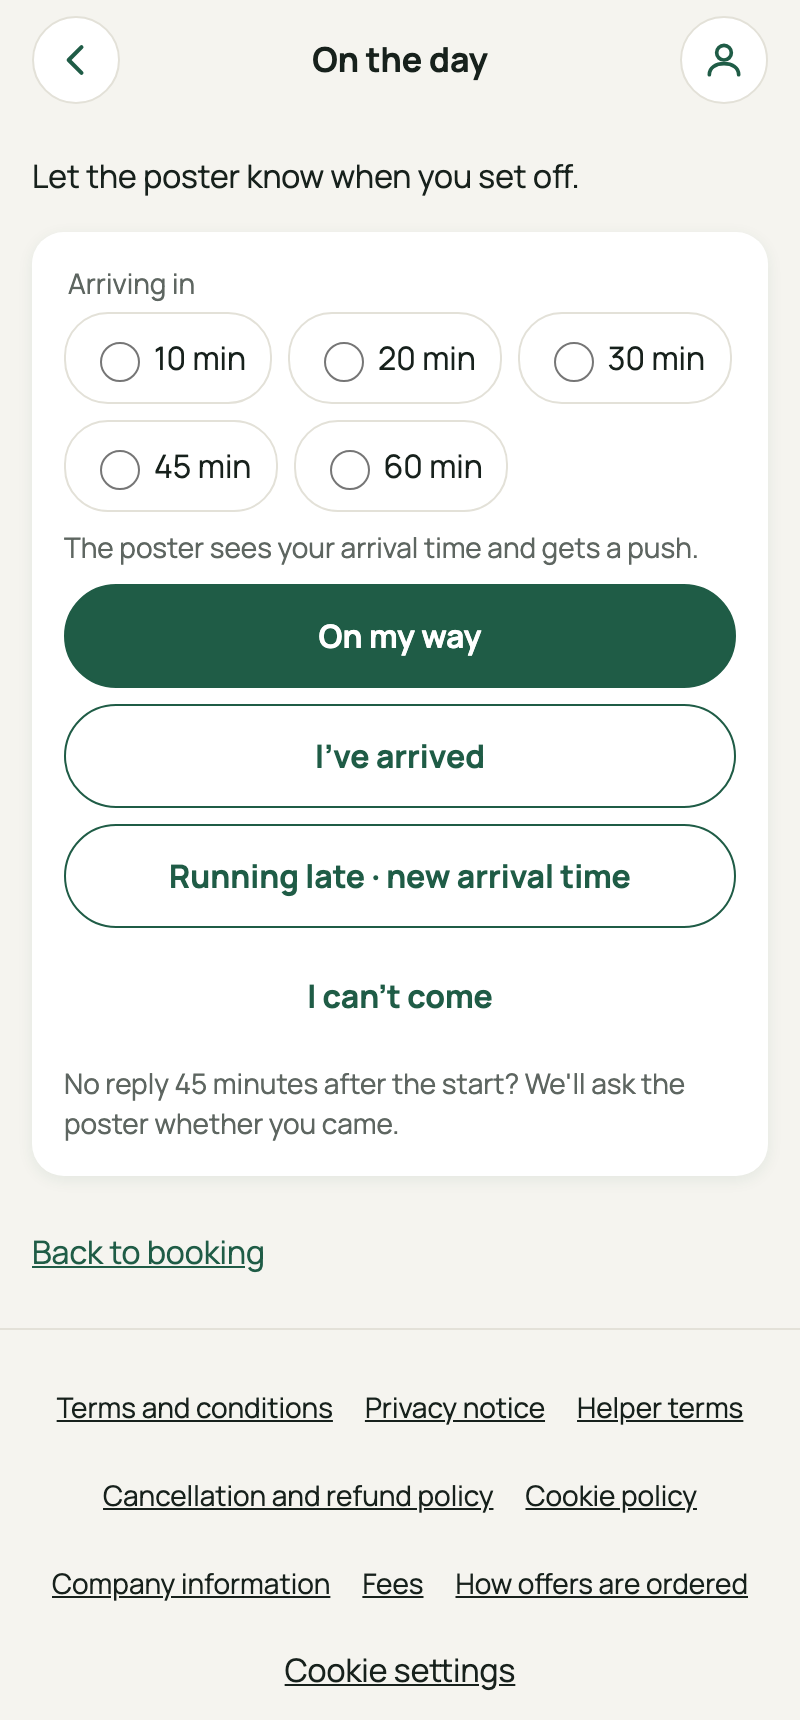
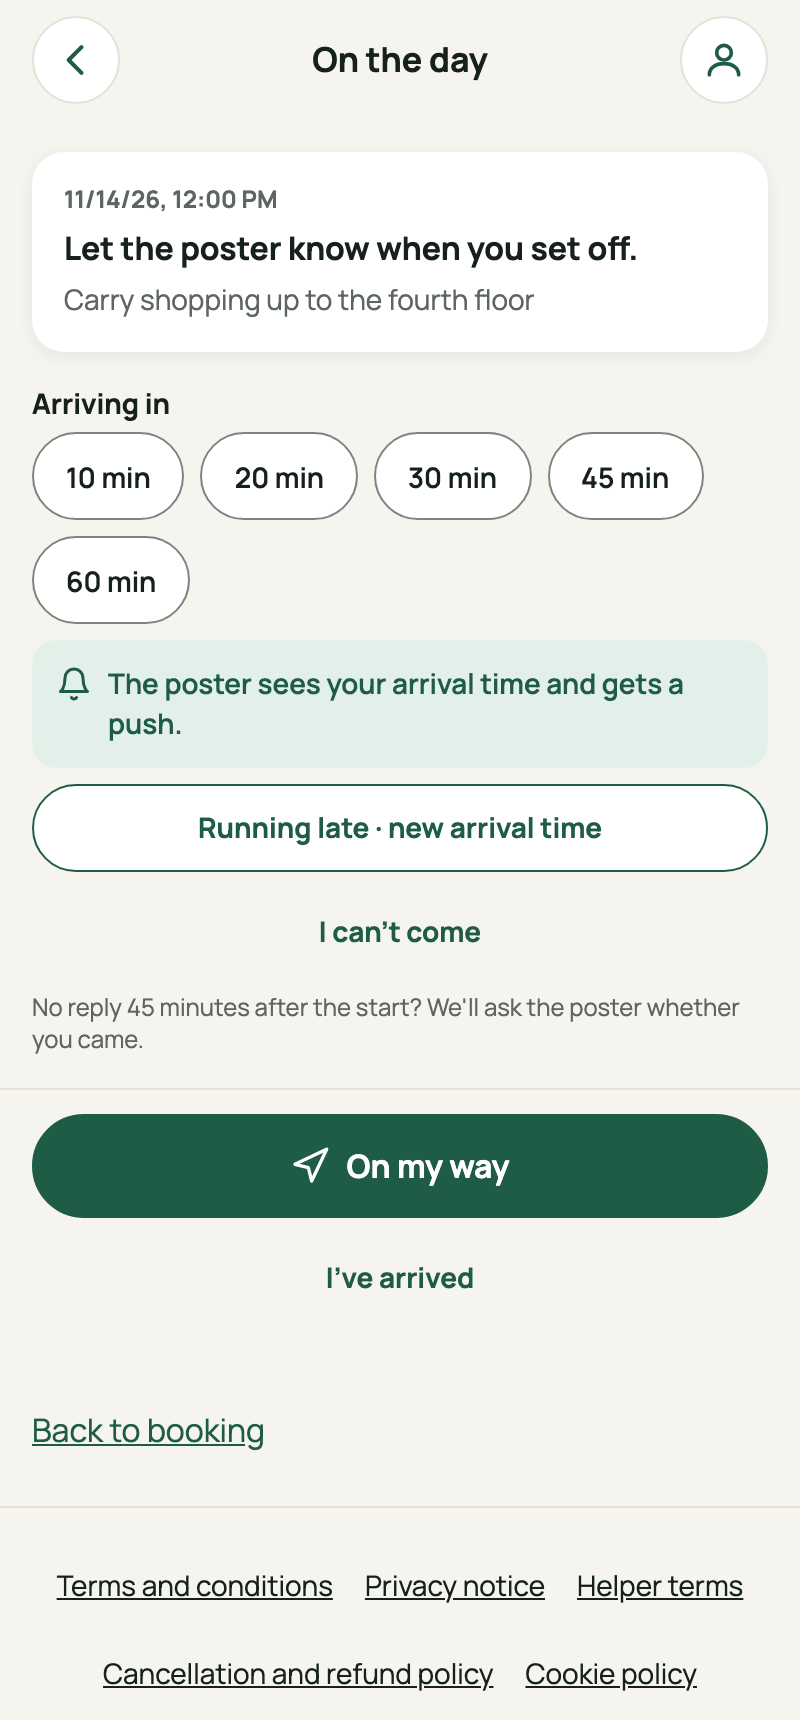
BEAV-212: note what web builds in mockups 07 and 18; retake demo screenshots
docs/demo/web 05, 06, 07, 08, 09, 10 and 13 from a fresh
seed_demo --reset at 800 x 1720.

Jira: BEAV-212

diff --git a/design/mockups/screens/18-no-show-late.html b/design/mockups/screens/18-no-show-late.html
@@ -1,3 +1,17 @@
+<!--
+  Web aligned in BEAV-212 (apps/web components/arrival): a summary card (slot, status line,
+  task), the arrival time chips as pills with the bell note, and the helper's button bar
+  (On my way and I've arrived; once on the way, Send new arrival time and I've arrived) pinned
+  only while it fits (PinnedFoot). 18c the late answer, 18d "Did your helper come?" with 18e's
+  warning as a note and the API refund, the no-show badges of 18e/18f, 18h the orange-edged
+  "I was there" card, and 18i the early start. Every amount is the API's (hard rule g); the
+  day-of-job statuses stay evidence taps only (hard rule k).
+  Kept here for what isn't built yet: 18b is a chat prompt (no chat yet); 18c's refund amount on
+  "Cancel for free" (the late answer has no preview in the API); 18f's refunded amount, card and
+  "Re-open task" on this page (the booking detail and cancel pages show the outcome); the
+  on-site contact card on this page (it is on the booking detail, one tap back). The no-access
+  frames (13j-13l) wait for BEAV-125, /bookings/[id]/no-access is a placeholder until then.
+-->
 <div class="screen" id="18a Helper · On my way">{{sb}}
  <div class="top"><span class="ibtn">{{i:back}}</span><span class="t">Grocery run for Mama</span><span class="ibtn">{{i:more}}</span></div>
  <div class="body" style="gap:12px;padding-top:0">

diff --git a/design/mockups/screens/07-request-release-payment.html b/design/mockups/screens/07-request-release-payment.html
@@ -1,3 +1,15 @@
+<!--
+  Web aligned in BEAV-212 (apps/web components/booking): 7b's "Payment requested" card first
+  (clock icon, "Waiting for the poster to release €…" for the helper; the poster is asked to
+  release when happy), the on-site contact card with the avatar and a Call button (only from
+  the exact place the server sends, hard rule e; "Shown to you only while booked" sits once,
+  under the address), and the safety line as a note. Amounts are the API's.
+  Kept here for what isn't built yet: 7a Request payment (photos, note) and 7d/7e/7f Release
+  payment, the tip and the success screen wait for BEAV-116, BEAV-117 and BEAV-118; until then
+  /bookings/[id]/release is a placeholder with no action and no amount. 7b's timeline and
+  reminders, the contact's language and "no smartphone" line, and "Contact support" aren't in
+  the API yet. 7c is a push. Delete each frame once built.
+-->
 <div class="screen" id="7a Helper · Request payment">{{sb}}
  <div class="top"><span class="ibtn">{{i:back}}</span><span class="t">Request payment</span><span style="width:44px"></span></div>
  <div class="body" style="gap:12px;padding-top:0">
